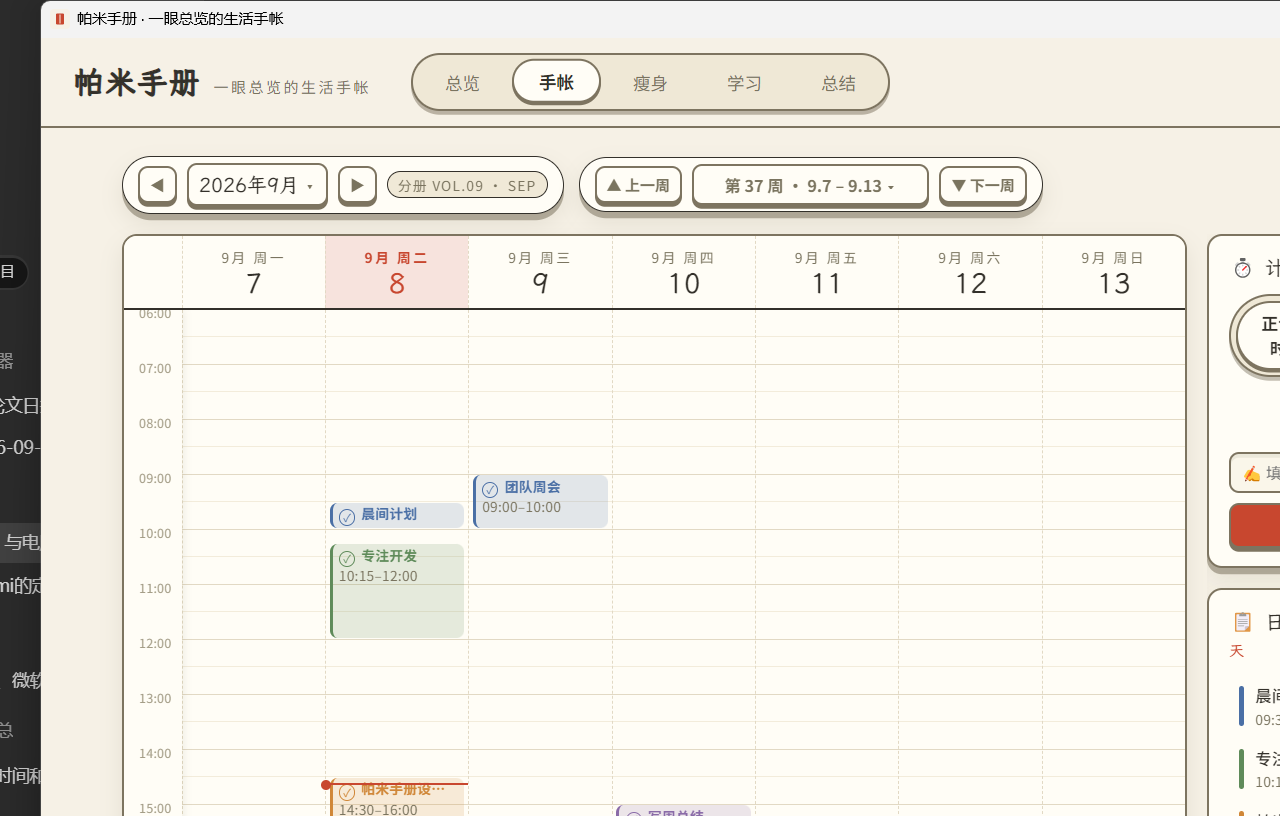
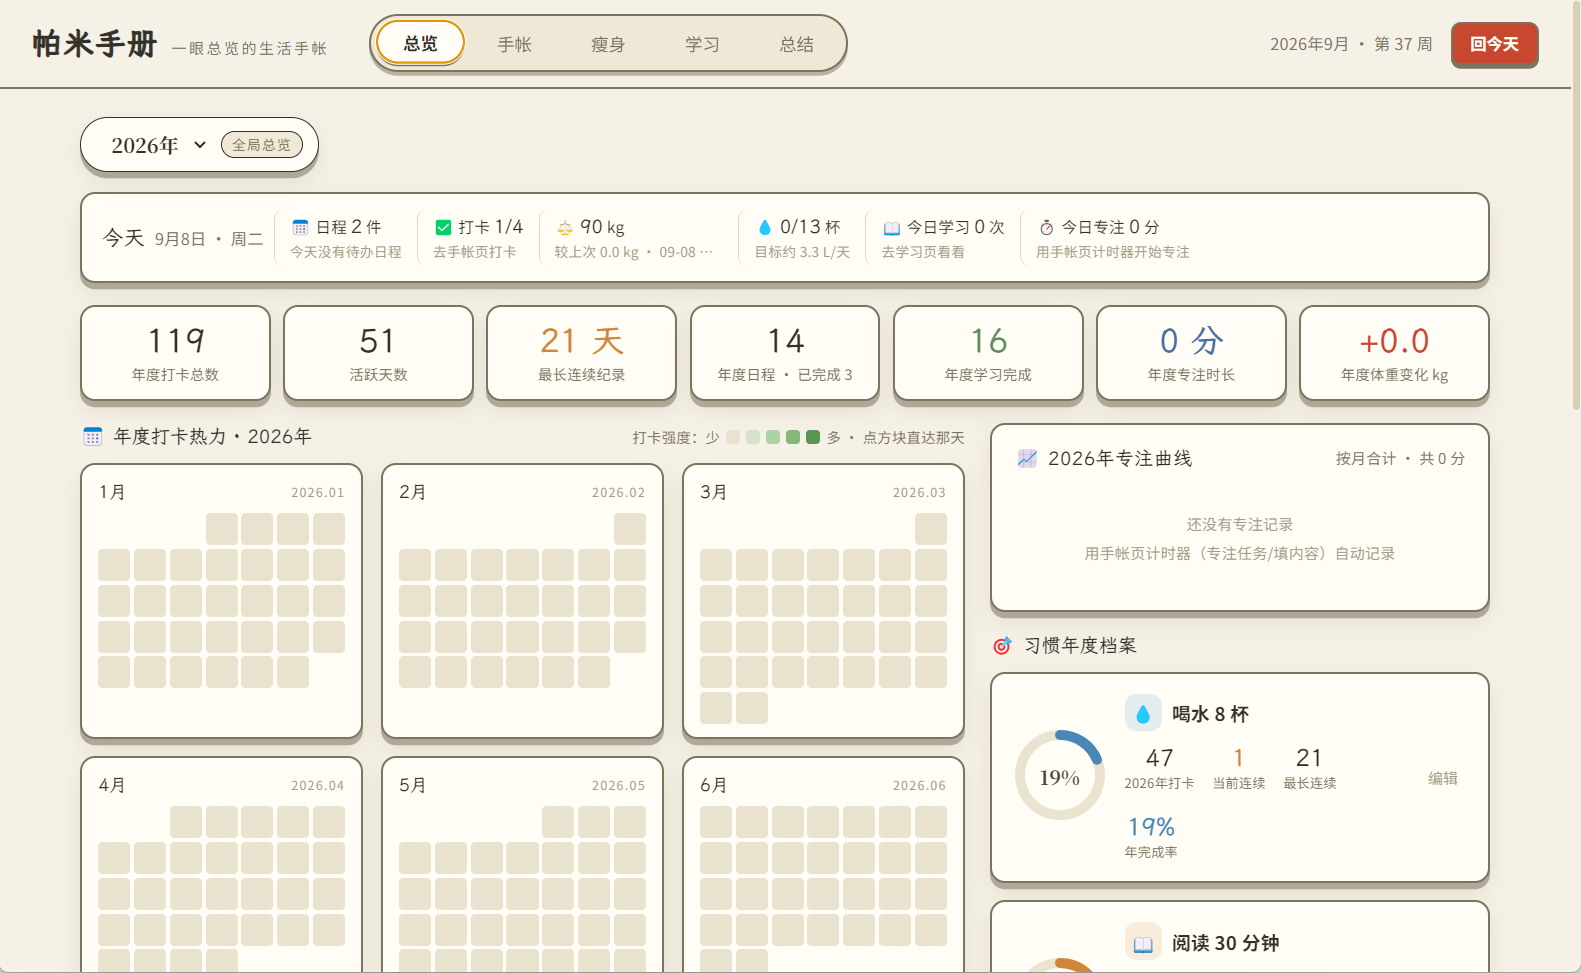
界面预览更换为商店素材四张图

diff --git a/README.md b/README.md
@@ -14,13 +14,13 @@
 
 ## 🖼 界面预览
 
-| 手帐页 · 月周联动 | 手帐页 · 周时间轴与课程表 |
+| 手帐页 · 月周联动 | 总览页 · 全年仪表盘 |
 |:---:|:---:|
-| ![手帐页](screenshots/journal.png) | ![课程表](screenshots/timetable.png) |
+| ![手帐页](screenshots/home.png) | ![总览页](screenshots/overview.png) |
 
-| 总览页 · 全年仪表盘 | 总结页 · 专注统计与复盘 |
+| 总结页 · 专注统计与复盘 | 瘦身页 · 健康管理 |
 |:---:|:---:|
-| ![总览页](screenshots/overview.png) | ![总结页](screenshots/summary.png) |
+| ![总结页](screenshots/summary.png) | ![瘦身页](screenshots/fitness.png) |
 
 ---
 
